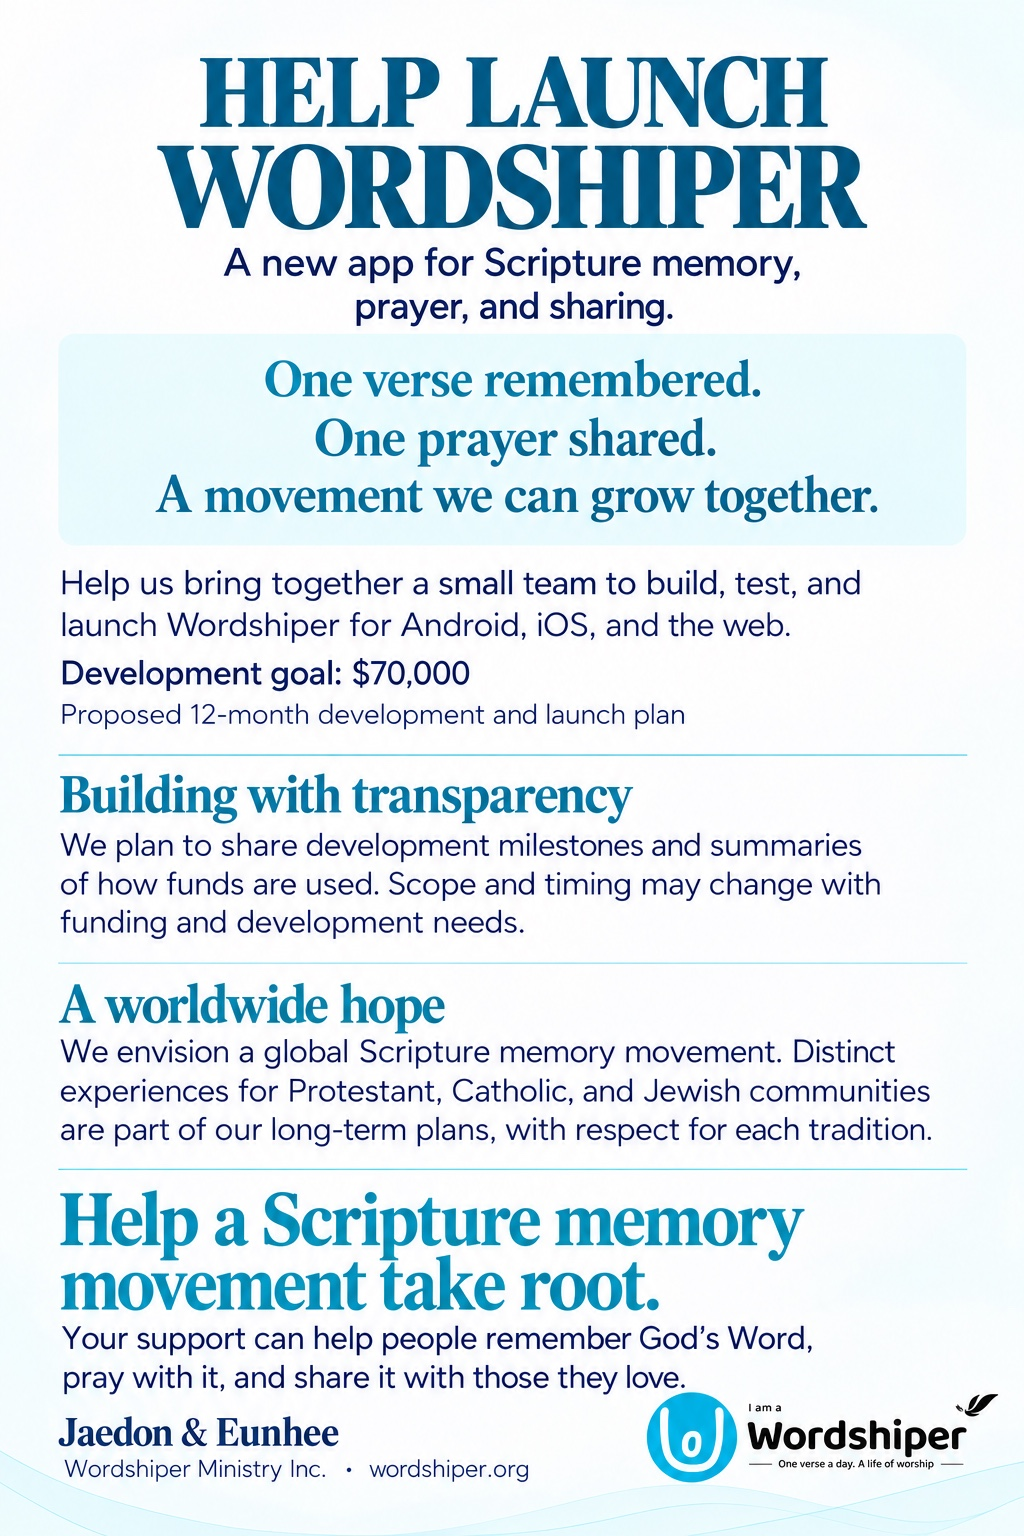
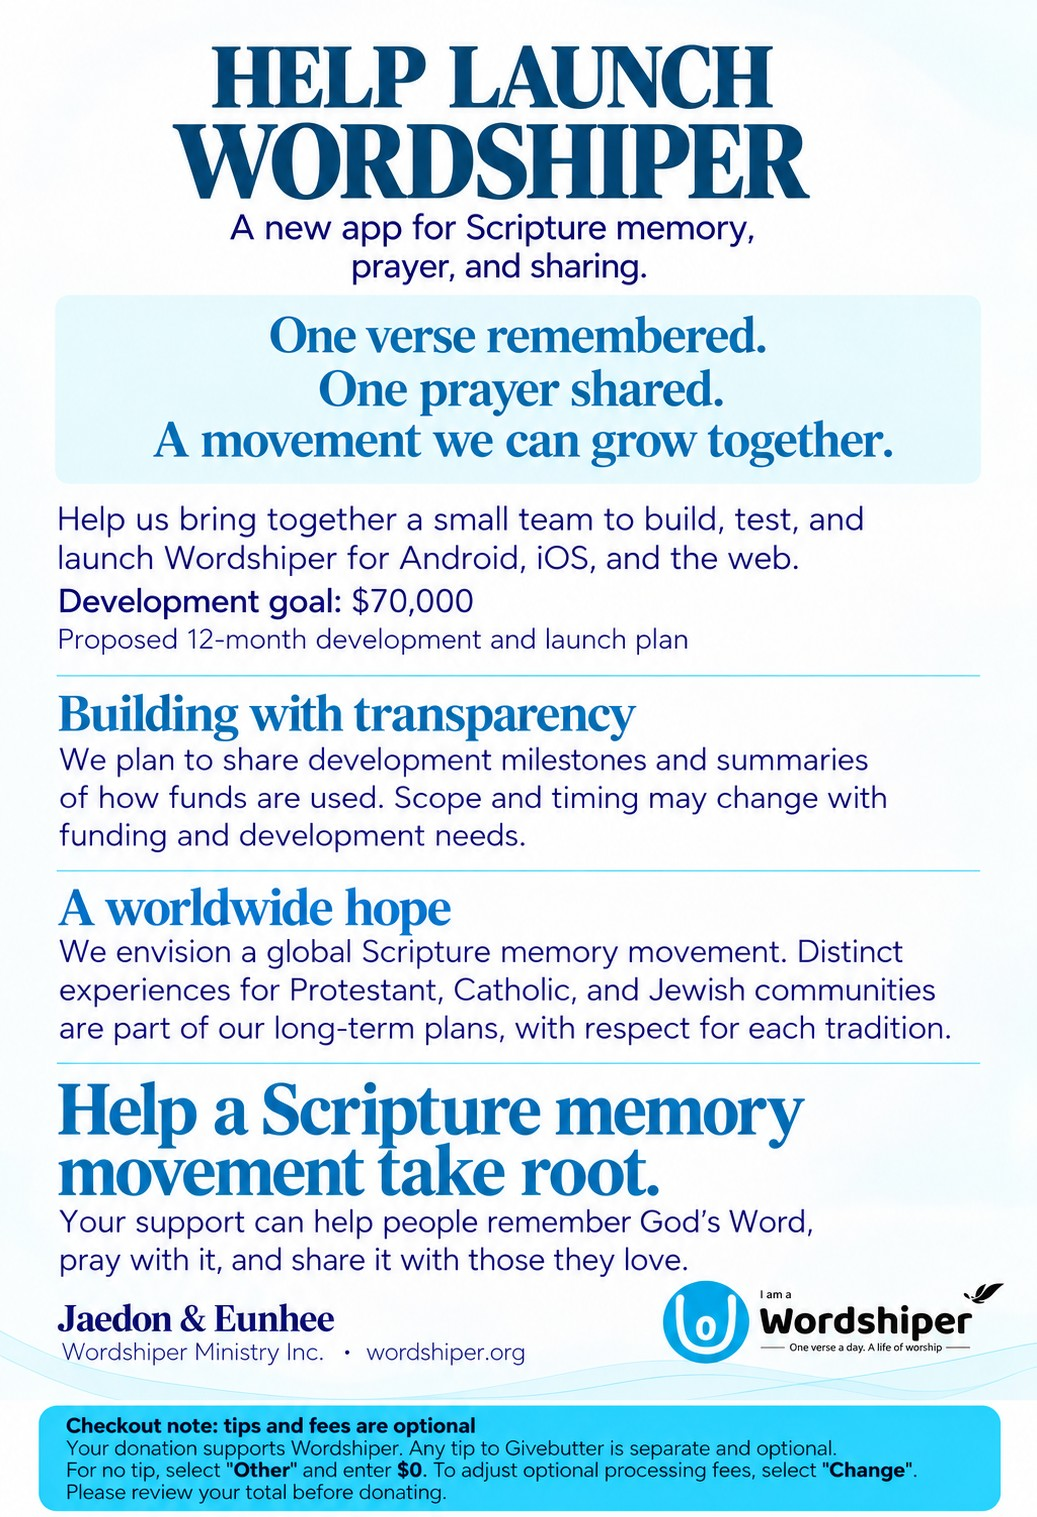
Replace the English launch poster with the version that explains optional Givebutter tips and fees.

diff --git a/client/src/data/donation-campaign.ts b/client/src/data/donation-campaign.ts
@@ -24,7 +24,7 @@ const EN_PANELS: CampaignPanel[] = [
   },
   {
     src: "/campaign/en/04-launch.jpg",
-    alt: "Help launch Wordshiper. Development goal $70,000. Jaedon and Eunhee.",
+    alt: "Help launch Wordshiper. Development goal $70,000. Jaedon and Eunhee. Checkout note: tips to Givebutter and processing fees are optional; select Other and enter $0 for no tip.",
   },
 ];
 
